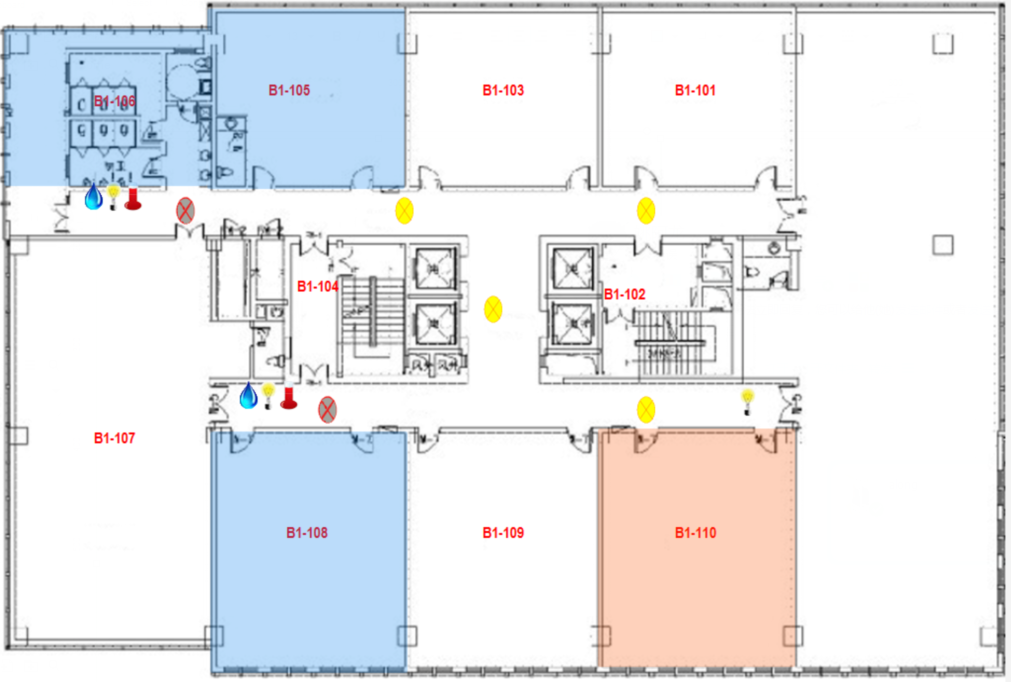
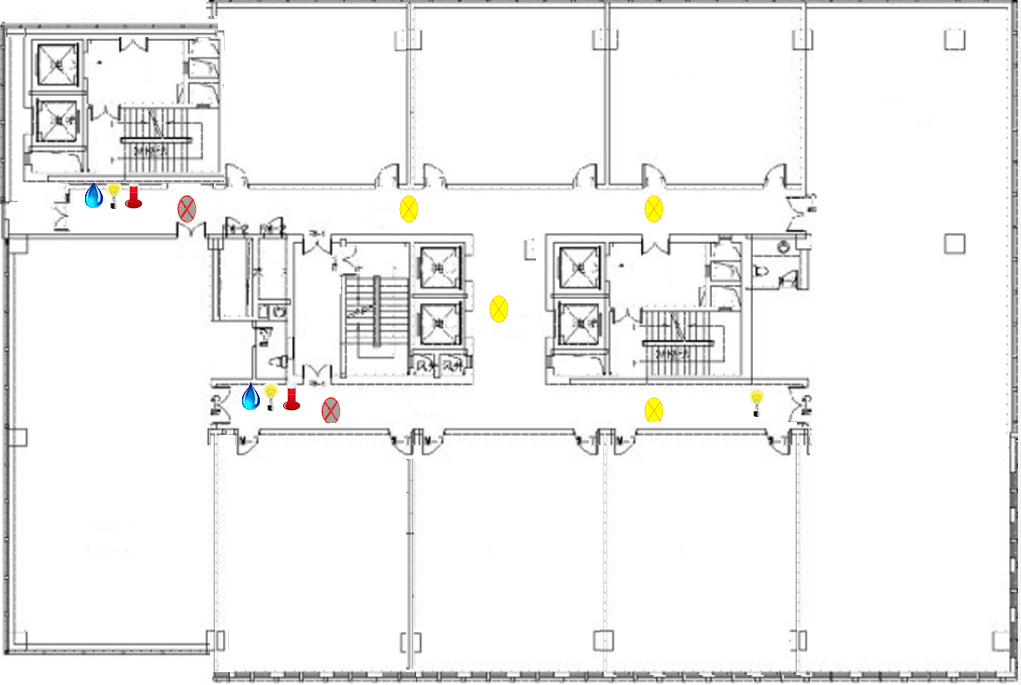
完成了界面优化

diff --git a/src/main/webapp/reality/css/index.css b/src/main/webapp/reality/css/index.css
@@ -311,7 +311,6 @@ li a{
     position: absolute;
     left: 910px;
     top: 180px;
-    background: #FFFFFF;
     height: 50px;
     width: 50px;
 }
@@ -320,7 +319,6 @@ li a{
     position: absolute;
     left: 878px;
     top: 295px;
-    background: #FFFFFF;
     height: 20px;
     width: 25px;
 }
@@ -329,7 +327,6 @@ li a{
     position: absolute;
     left: 790px;
     top: 180px;
-    background: #FFFFFF;
     height: 20px;
     width: 50px;
 }
@@ -338,7 +335,6 @@ li a{
     position: absolute;
     left: 692px;
     top: 300px;
-    background: #FFFFFF;
     height: 30px;
     width: 32px;
 }
@@ -347,7 +343,6 @@ li a{
     position: absolute;
     left: 682px;
     top: 180px;
-    background: #B0E0E6;
     height: 20px;
     width: 25px;
 }
@@ -356,7 +351,6 @@ li a{
     position: absolute;
     left: 580px;
     top: 180px;
-    background: #B0E0E6;
     height: 20px;
     width: 25px;
 }
@@ -365,7 +359,6 @@ li a{
     position: absolute;
     left: 580px;
     top: 380px;
-    background: #FFFFFF;
     height: 50px;
     width: 50px;
 }
@@ -374,7 +367,6 @@ li a{
     position: absolute;
     left: 693px;
     top: 435px;
-    background: #B0E0E6;
     height: 20px;
     width: 25px;
 }
@@ -383,7 +375,6 @@ li a{
     position: absolute;
     left: 800px;
     top: 435px;
-    background: #FFFFFF;
     height: 50px;
     width: 50px;
 }
@@ -392,7 +383,6 @@ li a{
     position: absolute;
     left: 910px;
     top: 435px;
-    background: #FFDAB9;
     height: 20px;
     width: 50px;
 }
